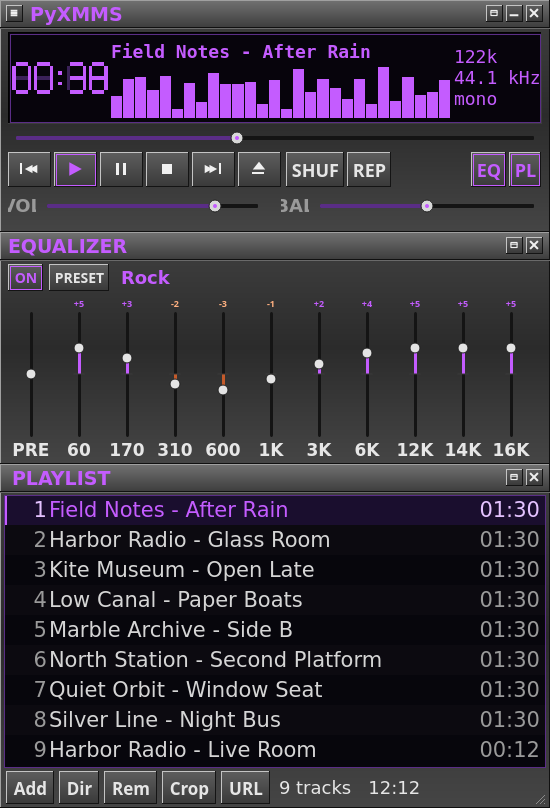
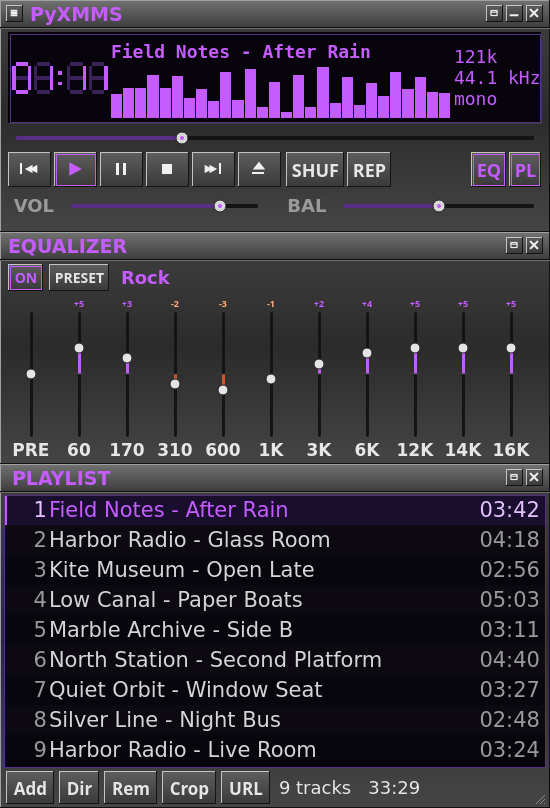
added images to readme

diff --git a/pyxmms/mainwin.py b/pyxmms/mainwin.py
@@ -183,7 +183,8 @@ class MainWindow(MetalWindow):
             right -= gap
 
         self.seek.setGeometry(metrics.seek)
-        label_w = max(22, 14 * scale)
+        label_font = metrics.font(metrics.small_px, bold=True)
+        label_w = QFontMetrics(label_font).horizontalAdvance("VOL") + 6 * scale
         vy = metrics.vol_y
         vh = metrics.vol_h
         self._vol_label = QRect(metrics.margin, vy, label_w, vh)

diff --git a/README.md b/README.md
@@ -1,5 +1,8 @@
 # PyXMMS
 
+<img src="assets/screenshot-player.png" alt="PyXMMS, with the main window, equalizer, and playlist" width="550">
+<img src="assets/screenshot-video.png" alt="The video window, open while a picture is playing" width="640">
+
 A classic music player for current Linux: main controls, playlist, and a 10-band equalizer. A video window opens when the file has a picture. Playback goes through libmpv, so it plays what `mpv` plays (MP3, Ogg, FLAC, Opus, WAV, M4A, MP4, MKV, WebM, and the rest).
 
 PyXMMS is a new player with the layout and habits of the classic GTK 1 player XMMS from 2007, drawn from scratch. PyXMMS is not that project, and it does not load Winamp skin files.
